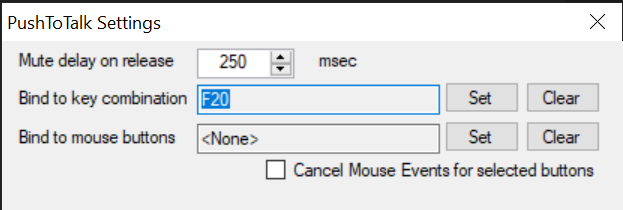
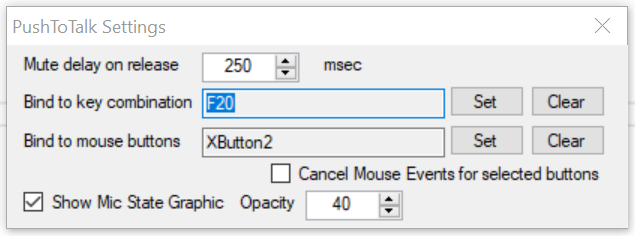
updated docs

Changed region(s): [[0.0, 0.0, 1.0, 1.0]]

diff --git a/README.md b/README.md
@@ -27,6 +27,5 @@ The tray icon will go from red to green when the mic is active.
 The settings are stored in the registry in HKCU/Software/FearTheCowboy/PushToTalk
 
 
-
-
+Updated to add support to have a visible indicator ![state](./docs/state.png)
 
